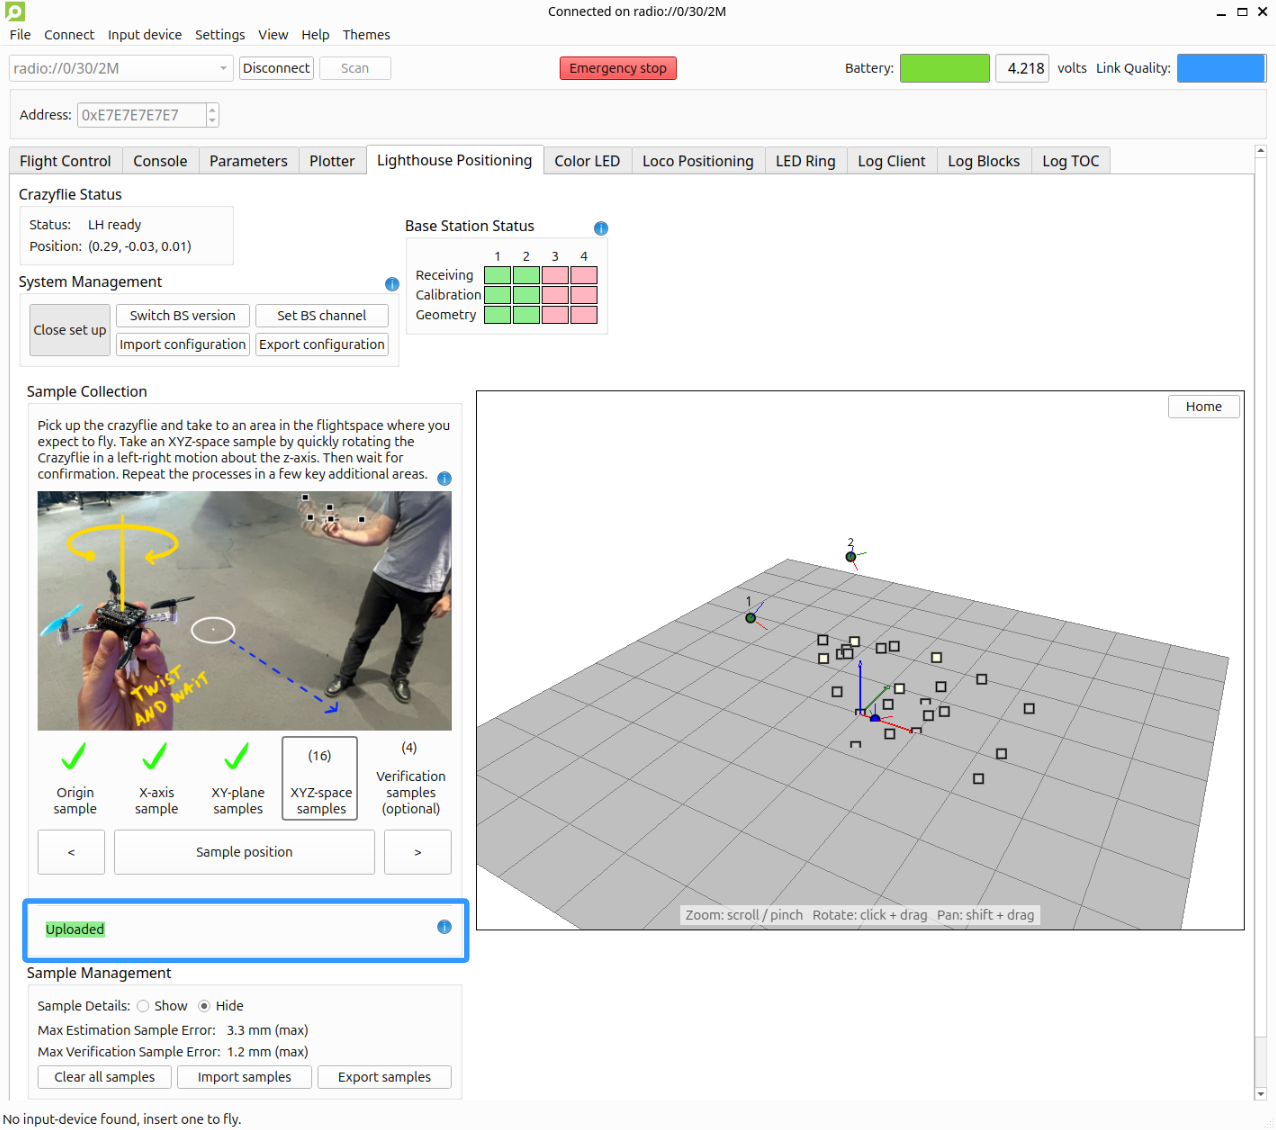
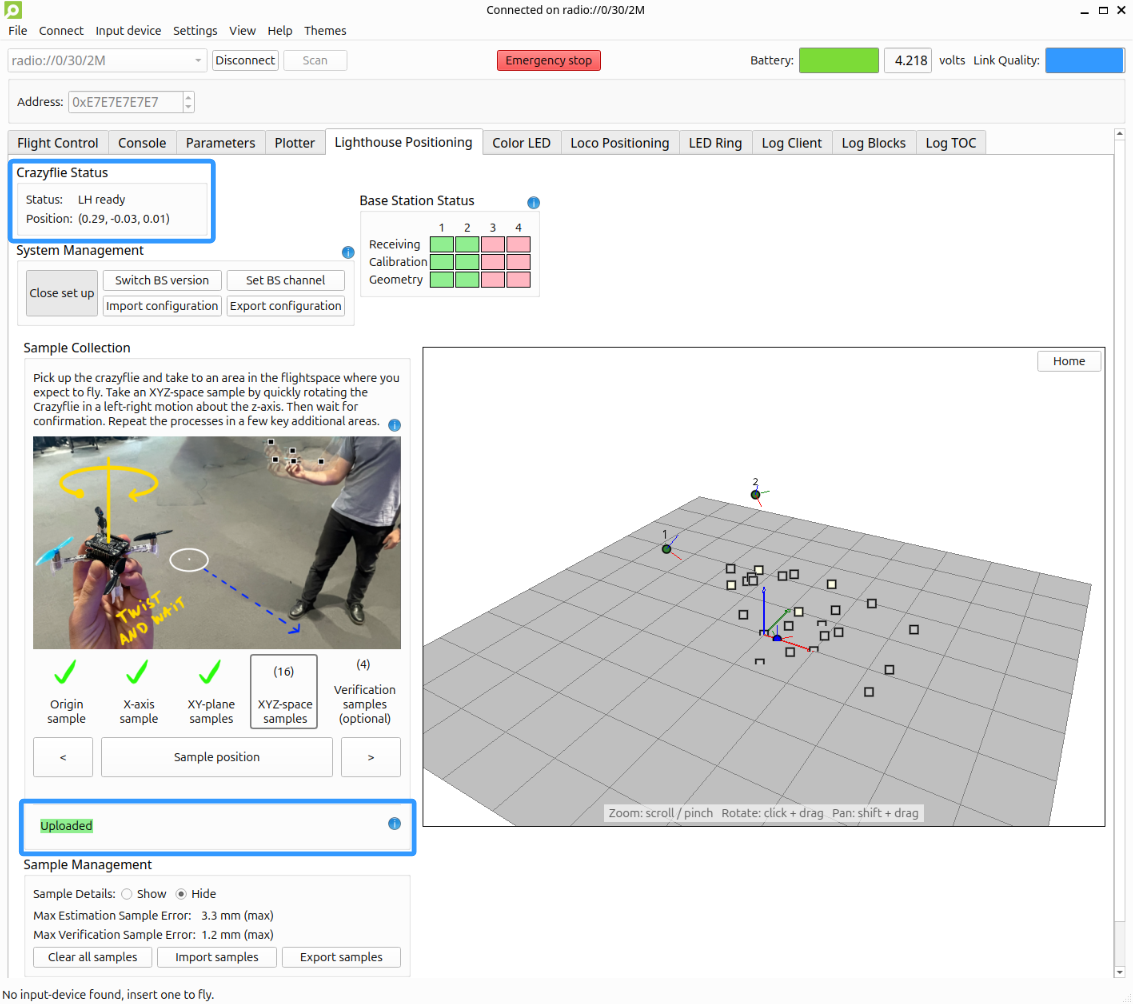
Updated the sanity-check instructions and image

diff --git a/src/documentation/tutorials/getting-started-with-lighthouse.md b/src/documentation/tutorials/getting-started-with-lighthouse.md
@@ -161,7 +161,7 @@ The geometry is estimated and uploaded to the Crazyflie automatically. The statu
 {% si_step Check the positioning %}
 The Lighthouse Deck's LED should now be green, and the 3D visualization should show the base stations with their channels and the Crazyflie as a blue dot.
 
-Sanity check the position estimation by moving the Crazyflie around with your hand.
+Sanity-check the position estimation by placing the Crazyflie in different positions. The estimated position should remain relatively stable and should not drift or jump unexpectedly.
 {% img base station status; wide; /images/tutorials/getting_started_with_lighthouse/6_setup_completed.png %}
 {% endsi_step %}
 
